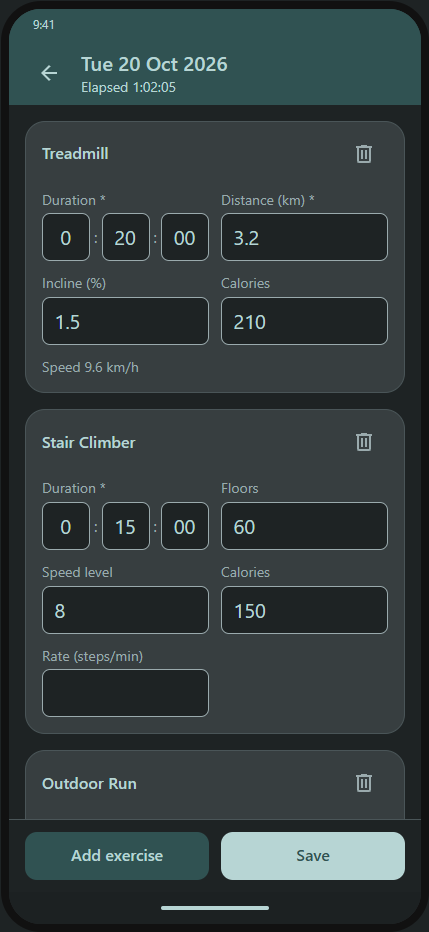
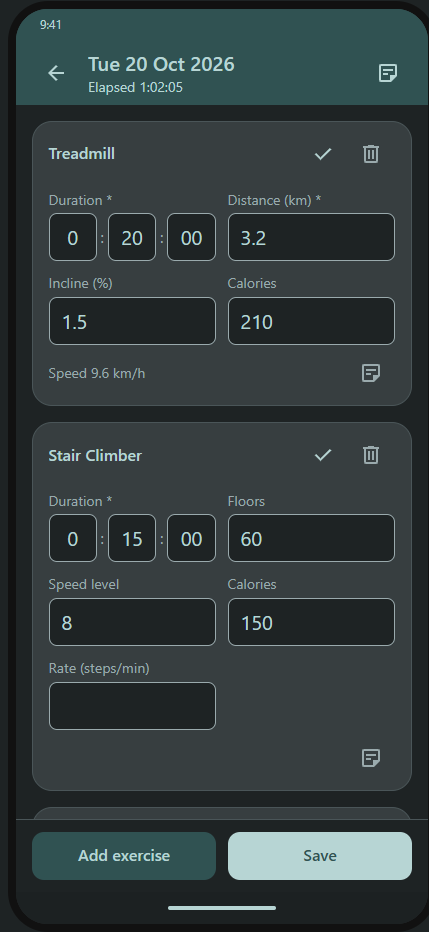
docs: README screenshots for notes (#103)
Retakes the logging screenshots with the note buttons and adds a picture of the workout note, exercise notes and last time's note. The logging gallery shrinks to 150px cells to fit five pictures.

diff --git a/README.md b/README.md
@@ -44,25 +44,31 @@ It's built for one person and one phone: no accounts, no sign-up.
     <td align="center">
       <picture>
         <source media="(prefers-color-scheme: dark)" srcset="docs/images/readme/new-workout-dark.png" />
-        <img src="docs/images/readme/new-workout-light.png" alt="Logging strength sets" width="190" />
+        <img src="docs/images/readme/new-workout-light.png" alt="Logging strength sets" width="150" />
       </picture>
     </td>
     <td align="center">
       <picture>
         <source media="(prefers-color-scheme: dark)" srcset="docs/images/readme/cardio-dark.png" />
-        <img src="docs/images/readme/cardio-light.png" alt="Logging cardio entries" width="190" />
+        <img src="docs/images/readme/cardio-light.png" alt="Logging cardio entries" width="150" />
       </picture>
     </td>
     <td align="center">
       <picture>
         <source media="(prefers-color-scheme: dark)" srcset="docs/images/readme/add-exercise-dark.png" />
-        <img src="docs/images/readme/add-exercise-light.png" alt="Adding an exercise" width="190" />
+        <img src="docs/images/readme/add-exercise-light.png" alt="Adding an exercise" width="150" />
       </picture>
     </td>
     <td align="center">
       <picture>
         <source media="(prefers-color-scheme: dark)" srcset="docs/images/readme/last-time-dark.png" />
-        <img src="docs/images/readme/last-time-light.png" alt="Last time's values beside each set" width="190" />
+        <img src="docs/images/readme/last-time-light.png" alt="Last time's values beside each set" width="150" />
+      </picture>
+    </td>
+    <td align="center">
+      <picture>
+        <source media="(prefers-color-scheme: dark)" srcset="docs/images/readme/notes-dark.png" />
+        <img src="docs/images/readme/notes-light.png" alt="A workout note and exercise notes, with last time's note" width="150" />
       </picture>
     </td>
   </tr>
@@ -71,6 +77,7 @@ It's built for one person and one phone: no accounts, no sign-up.
     <td align="center"><sub><b>Cardio</b></sub></td>
     <td align="center"><sub><b>Add exercise</b></sub></td>
     <td align="center"><sub><b>Last time</b></sub></td>
+    <td align="center"><sub><b>Notes</b></sub></td>
   </tr>
 </table>
 
